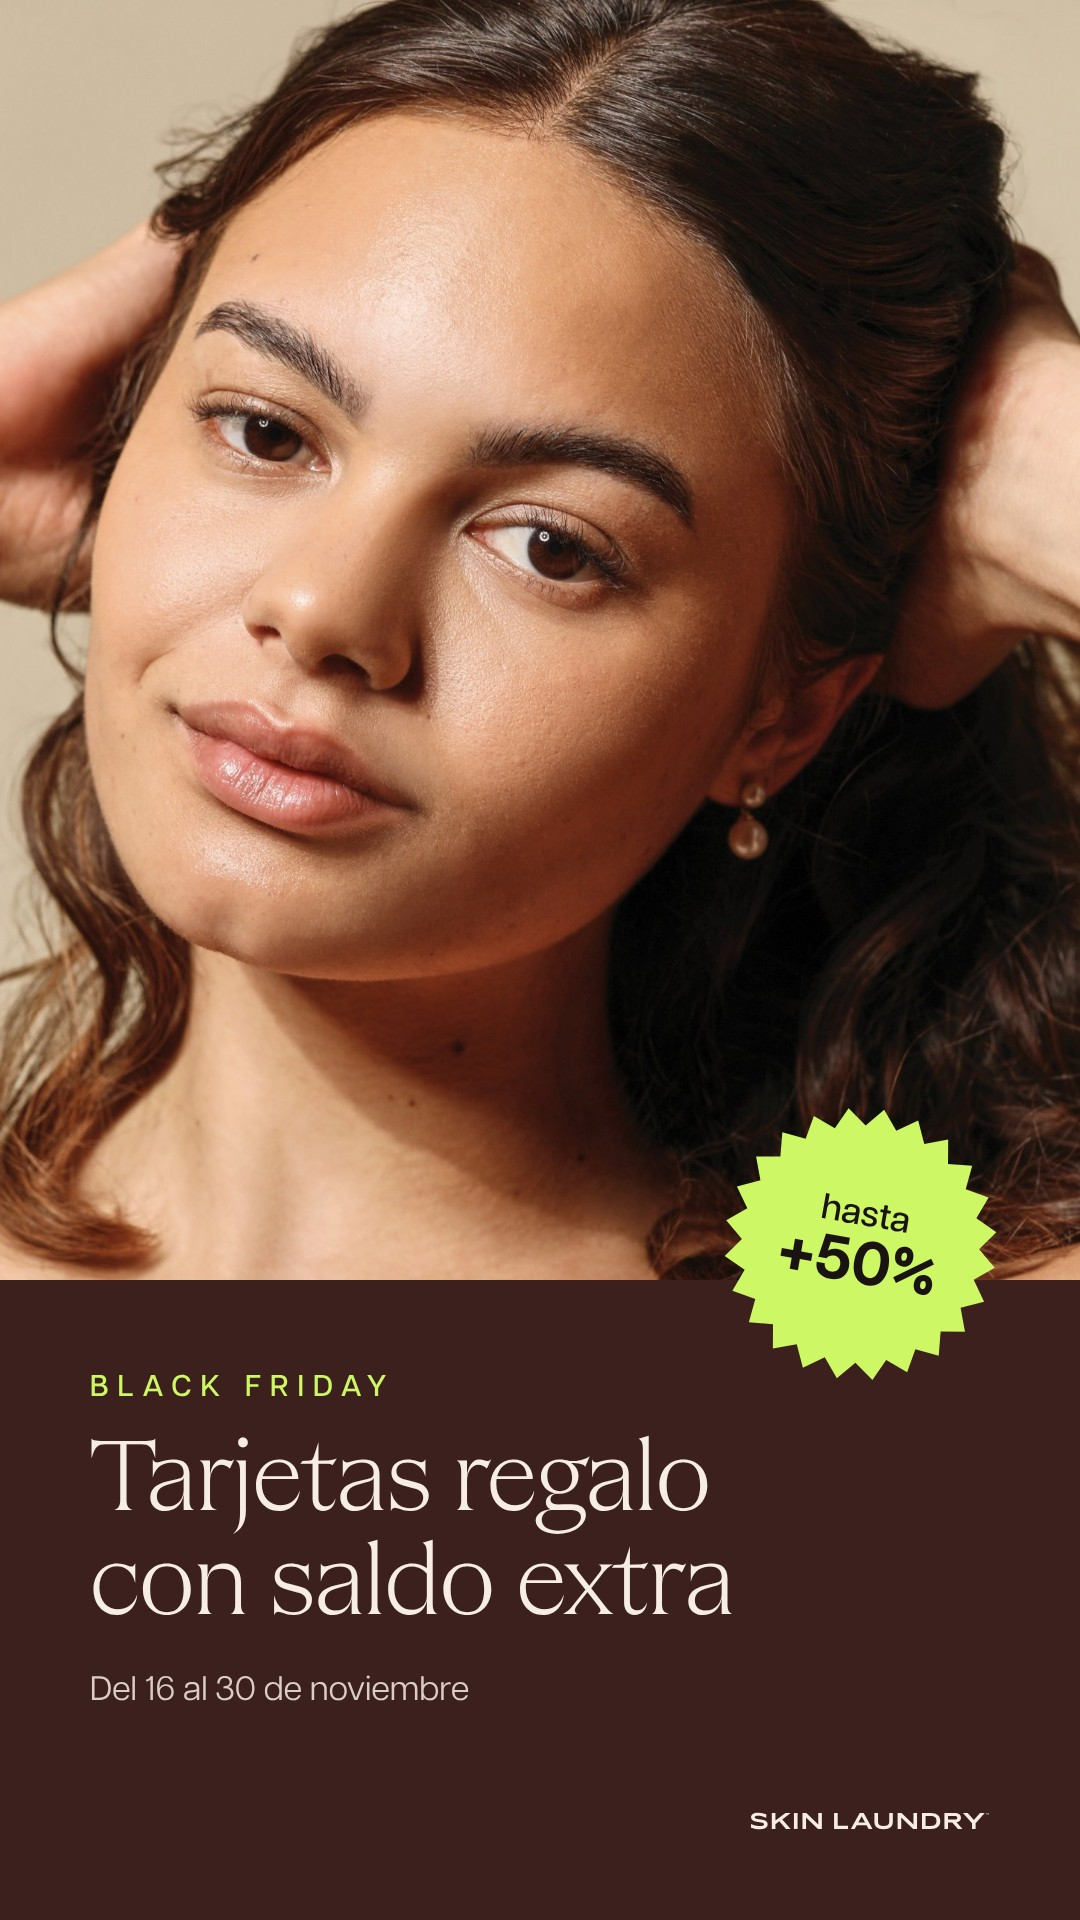
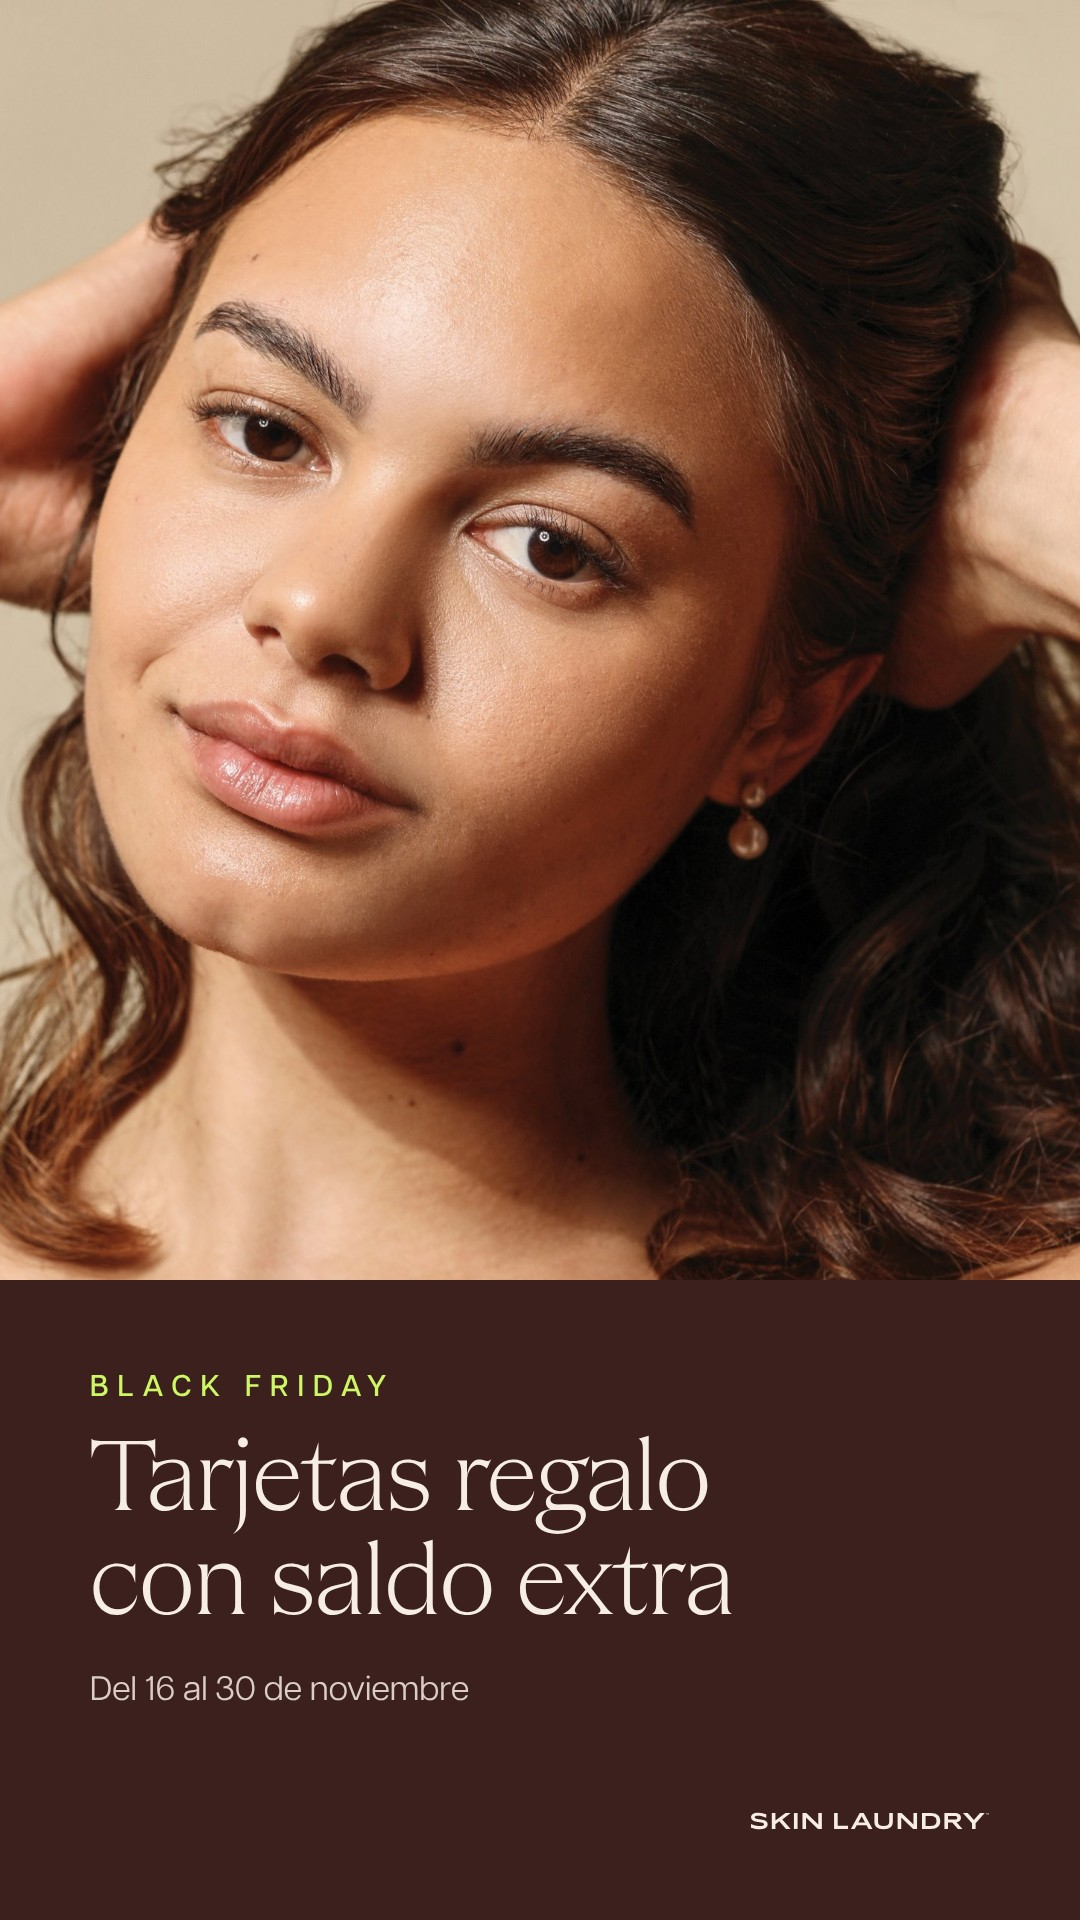
Día 18: story de Black Friday sin el sello del +50%
Claude-Session: https://claude.ai/code/session_01JZ4qrB4vBJCM1LriYw1bZU

Changed region(s): [[0.6722, 0.5625, 0.9167, 0.7188]]

diff --git a/public/pitch/skin-laundry-calendario/noviembre/index.html b/public/pitch/skin-laundry-calendario/noviembre/index.html
@@ -725,7 +725,7 @@ Siempre empieza con una consulta previa con nuestros médicos. Puedes pedirla de
 📍 Av. Diagonal 610, Barcelona
 #Glowtox #KoreanSkin #GlassSkin #SkinLaundryBarcelona #MedicinaEsteticaBarcelona` },
 
-{ d:18, formato:"Post", storyImg:"/pitch/skin-laundry-calendario/noviembre/img/st_18.jpg?v=11120146", cubo:"Promociones", tema:"Black Friday", hora:"19:30h",
+{ d:18, formato:"Post", storyImg:"/pitch/skin-laundry-calendario/noviembre/img/st_18.jpg?v=11161135", cubo:"Promociones", tema:"Black Friday", hora:"19:30h",
   pieza:"Tarjetas regalo con valor extra",
   base:"Excel 2025: Black Friday · actualización de Carlota (30/10): tramos, venta del 16 al 30/11 y validez hasta el 28/02", cta:"Reserva antes de que acabe",
   nota:"Foto de modelo: confirmar que es de Canto o del shooting con derechos",
